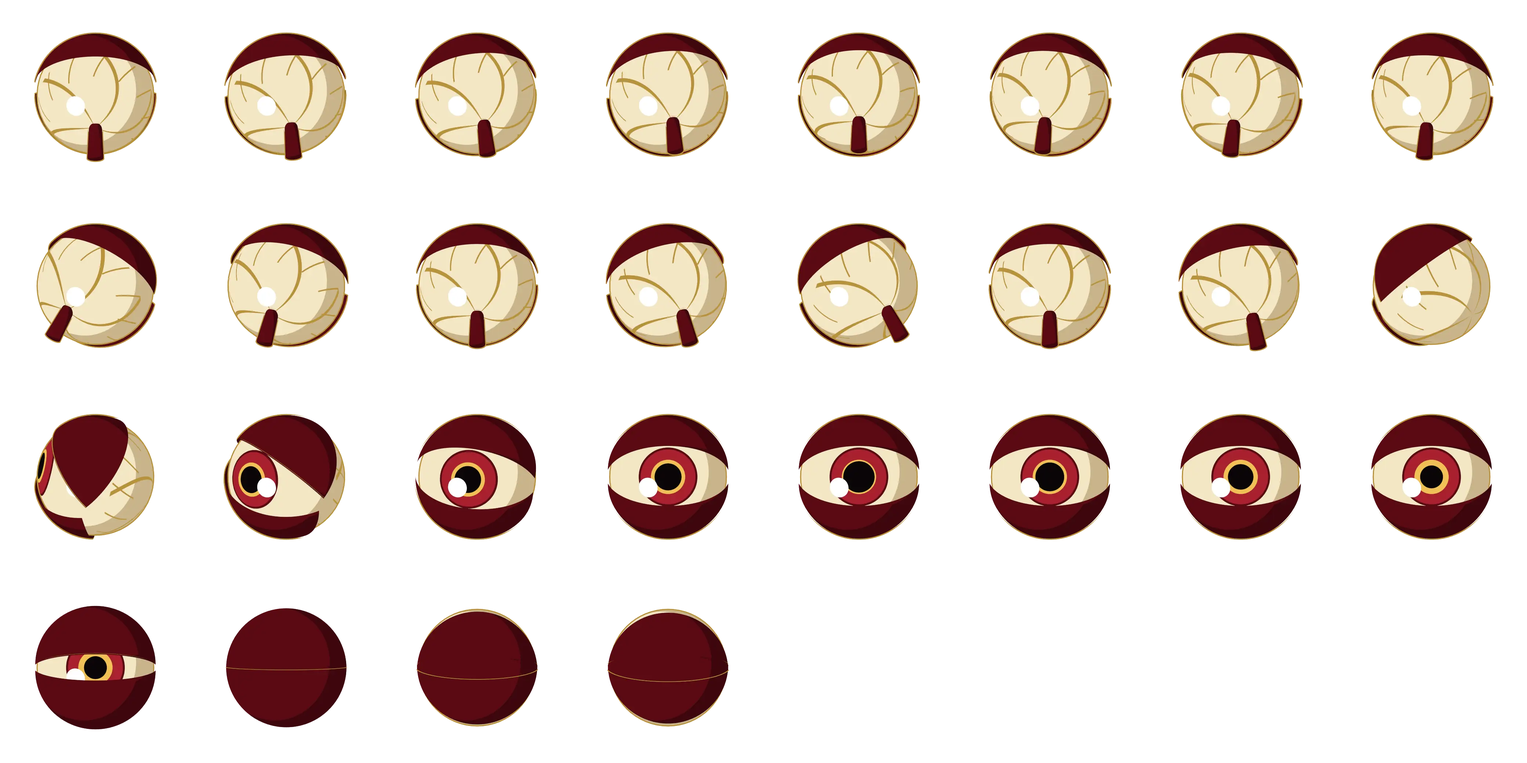
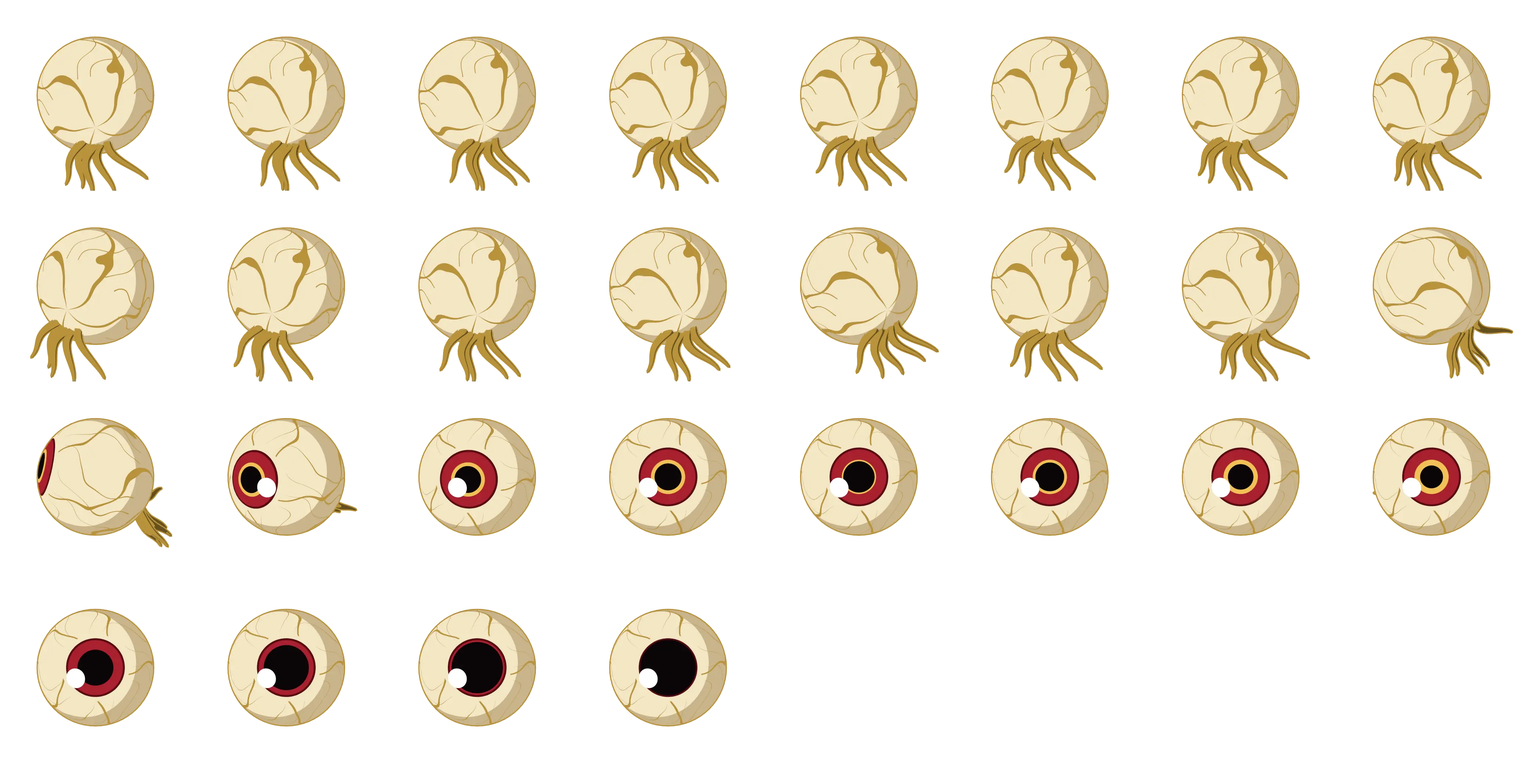
KITTY_RUN.EXE: READY, SET, GO! and a lidless eye
- Every run starts with READY, SET, GO! in the HUD's LCD type, a word every
  0.8 s with one of the OS's run sounds: she sits facing down the road, gets up,
  and is off on GO. It waits on READY until her back-view sheet is in, and the
  fallback to the desktop's side-view sheet is gone, so she is only ever seen
  from behind.
- The eye has no lids now: a bare eyeball, bloodshot in the OS's accent, with
  five nerve tendrils hanging and swaying under it. Turning to face the visitor
  they swing round behind it, and at the end its pupil floods the iris before
  the screen's own lids close.
- No notices over the eye once it has her.

diff --git a/js/run.js b/js/run.js
@@ -22,7 +22,8 @@ const clamp = (v, a = 0, b = 1) => Math.max(a, Math.min(b, v));
 const pick = (a) => a[Math.floor(Math.random() * a.length)];
 const U = (lane) => (lane + .5) * 4 / 3;            // a lane's middle on the road, which runs 0 to 4
 const V0 = 1.2, VMAX = 2.4, RAMP = 100;                // r a second at the start, at most, and seconds to get most of the way there
-const SPAWN = 2.6, METRES = 12, INTRO = 1.5;          // where things appear (r), metres to an r, seconds before she bolts
+const SPAWN = 2.6, METRES = 12, INTRO = 1.6;          // where things appear (r), metres to an r, seconds before she bolts (on GO)
+const BEAT = .8, COUNT = ['READY', 'SET', 'GO!'];    // the countdown: a word every BEAT seconds, and GO! as she bolts
 const AGAIN = 8000, SAFE = 1200;                      // ms: a second hit inside AGAIN is caught; after a hit nothing hurts for SAFE
 const HOP = 220;                                      // ms from one lane to the next
 const TALL = 1.3, SLIDE = .7, RIDE = 2.25;            // her height, how long a slide lasts (s), how high a window carries her: over every wall
@@ -70,7 +71,7 @@ let host = null, on = false, last = 0, sec = 0, speed = 0, dt = 0, nowAt = 0, ca
 export let dist = 0;   // r run so far: js/beats.js moves the road's rows with it
 let wantJump = -1e9, landAt = -1e9, lane = 1, x = 1, fromX = 1, laneAt = -1e9, y = 0, air = null, slideTo = 0, swipe = null;
 let things = [], pops = [], gifts = [], fx = [], toasts = [], next = 0, open = 1, giftAt = 8, bag = [];
-let hitAt = -1e9, safeTo = 0, cleanFrom = 0, near = 1, eyeX = 0, caughtAt = 0, shownAt = 0, lid = null, meta = null;
+let hitAt = -1e9, safeTo = 0, cleanFrom = 0, near = 1, eyeX = 0, caughtAt = 0, shownAt = 0, lid = null, meta = null, said = -1;
 let warpAt = -1e9, powers = {}, bubbles = 0, score = 0, worlds = 0, world = '', tally = {}, notes = null, rideName = '', endedAt = -1e9;
 deck.audio.addEventListener('ended', () => { endedAt = performance.now(); });   // a song played out: only that earns the next OS its +1
 const card = $('run-result'), coarse = matchMedia('(pointer: coarse)');
@@ -86,7 +87,7 @@ export function start(h) {
   hitAt = -1e9; safeTo = 0; cleanFrom = 0; near = 0; eyeX = 0; eyeFrom = null; eyeY = 0; caughtAt = 0; shownAt = 0;
   powers = {}; bubbles = score = worlds = 0; warpAt = -1e9; world = '';
   tally = { pop: 0, run: 0, jump: 0, slide: 0, power: 0, clean: 0, ride: 0, score: 0 };
-  runBase = save.base; runSet = save.set; wantJump = -1e9;
+  runBase = save.base; runSet = save.set; wantJump = -1e9; said = -1;
   card.hidden = true;
   deck.audio.currentTime = 0; play().catch(() => {});   // every run starts its song from the top, so none starts near a song's end
   if (lid) lid = { open: true, at: performance.now() };   // after a catch, the eye opens on the new run
@@ -134,7 +135,7 @@ export function key(e) {
     arrowup: jump, w: jump, ' ': jump, arrowdown: duck, s: duck }[k];
   if (!act) return false;
   if (e.type !== 'keydown' || e.repeat || !nowAt) return true;
-  if (sec < INTRO && !calm) sec = INTRO;   // a key in the intro and she bolts
+  if (sec < INTRO) { if (!sec) return true; sec = INTRO; }   // a key in the countdown and she's off (not before it starts)
   act();
   return true;
 }
@@ -304,8 +305,12 @@ function update(f) {
     const css = getComputedStyle(document.documentElement), v = (n) => css.getPropertyValue(n).trim();
     lcd = { bg: v('--lcd-bg'), fg: v('--lcd-fg'), glow: v('--lcd-glow') };
   }
-  if (!caughtAt) sec += dt;
-  const run = sec - INTRO * !calm;
+  // The countdown waits on READY until her back-view sheet is in, however long that takes: she is never drawn any other
+  // way, and a run never starts without her on the road.
+  if (!caughtAt && (sec || sheetIn())) sec += dt;
+  const run = sec - INTRO;
+  const word = sec ? Math.min(2, Math.floor(sec / BEAT)) : -1;
+  if (word > said && run < .6) { said = word; sfx(word < 2 ? 'lane' : 'power', 0); }   // a tick on READY and SET, and GO!
   const want = run < 0 ? 0 : (V0 + (VMAX - V0) * (1 - Math.exp(-run / RAMP))) * (active('zoom') ? 1.7 : 1);
   speed += ((caughtAt ? 0 : want) - speed) * Math.min(1, dt * (caughtAt ? 6 : 3));
   dist += speed * dt;
@@ -473,25 +478,24 @@ function streaks(g, f) {   // zoomies: the world rushes past
 }
 
 /* ---------- Her ---------- */
-// From behind, from her own sheet per coat (<coat>-run.webp, described by kitty.json's run). Until it is in, the coat
-// she had stays on, and before any is in she is drawn from the desktop's run, which is already loaded.
+// From behind, from her own sheet per coat (<coat>-run.webp, described by kitty.json's run). Until a new OS's coat is in,
+// the coat she had stays on; before her first is in she isn't drawn at all, and the countdown waits on READY.
 let coatOn = '', strideAt = 99;
+const coatFor = (id) => (meta.coats.includes(id) ? id : meta.coats[0]);
+const sheetIn = () => !!(meta?.run && world && kittySheet('run', coatFor(world)).ok);   // her back-view sheet is in: the countdown can go
 function kitty(g, f) {
   const M = meta;
-  if (!M) return;
-  const B = M.run, want = B && M.coats.includes(f.id) ? f.id : M.coats[0];
-  if (B && kittySheet('run', want).ok) coatOn = want;
-  const back = B && coatOn && kittySheet('run', coatOn).ok;
-  const S = back ? B : { cell: M.cell, cx: M.cx, floor: M.floor, cols: M.cols, tall: 150, actions: M.actions };
-  const sheetOf = (a) => (back ? kittySheet('run', coatOn) : kittySheet(a.sheet, M.coats.includes(f.id) ? f.id : M.coats[0]));
-  const run = sec - INTRO * !calm, ages = (nowAt - caughtAt) / 1000, A = S.actions, last = (k) => A[k].frames - 1;
+  if (!M?.run) return;
+  const want = coatFor(f.id);
+  if (kittySheet('run', want).ok) coatOn = want;
+  if (!coatOn || !kittySheet('run', coatOn).ok) return;
+  const S = M.run;
+  const run = sec - INTRO, ages = (nowAt - caughtAt) / 1000, A = S.actions, last = (k) => A[k].frames - 1;
   const cycle = (n, fps) => Math.floor(nowAt / 1000 * fps) % n, along = (k, p) => Math.min(last(k), Math.floor(clamp(p) * A[k].frames));
   let name = 'run', i = 0, flip = 1;
   if (caughtAt) { name = 'look_around'; i = along(name, ages / 1.1); }
-  else if (!back) i = cycle(A.run.frames, 12);
-  else if (run < 0) {   // she sits, looks back at the eye, and bolts
-    const p = sec / INTRO;
-    if (p < .3) { name = 'sit'; i = cycle(A.sit.frames, 8); } else if (p < .78) { name = 'look_around'; i = along(name, (p - .3) / .48); } else { name = 'stand_up'; i = along(name, (p - .78) / .22); }
+  else if (run < 0) {   // READY: she sits, facing down the road; SET: she gets up; GO!: she's off
+    if (sec < BEAT) { name = 'sit'; i = cycle(A.sit.frames, 8); } else { name = 'stand_up'; i = along(name, (sec - BEAT) / (INTRO - BEAT)); }
   } else if (active('ride')) {   // up onto the window as it arrives, sitting on it as it flies, down as it goes
     const kin = clamp((nowAt - (powers.ride - LAST.ride * 1000)) / 450), kout = clamp((powers.ride - nowAt) / 450);
     if (kin < 1) { name = 'leap'; i = 3; } else if (kout < 1) { name = 'leap'; i = 6; } else { name = 'sit'; i = cycle(A.sit.frames, 8); }
@@ -506,7 +510,7 @@ function kitty(g, f) {
   if (calm && !caughtAt && (name === 'run' || name === 'sprint')) i = 0;
   if ((name === 'run' || name === 'sprint') && i < strideAt && !y) spark('puff', U(x), dist);   // a new stride: the hind paws strike
   strideAt = name === 'run' || name === 'sprint' ? i : 99;
-  const a = S.actions[name], img = sheetOf(a);
+  const a = S.actions[name], img = kittySheet('run', coatOn);
   if (!img?.ok) return;
   const [px, py] = f.at(U(x), 0), sc = f.lane * TALL / S.tall, n = a.first + i, [cw, ch] = S.cell;
   if (!f.lite) { g.fillStyle = 'rgba(0,0,0,.28)'; g.beginPath(); g.ellipse(px, py, f.lane * .42 / (1 + y * .4), f.lane * .1 / (1 + y * .4), 0, 0, TAU); g.fill(); }
@@ -597,10 +601,11 @@ function carpet(g, f, h, slide, alpha) {   // tilted up toward the far end, as a
 }
 
 /* ---------- The eye: a 3D eyeball in each OS's skin (_dev/kitty/blender/eyeball.py), seen from behind, from assets/run ---------- */
-// chase: a wobbling loop as it flies after her; look: turned toward her lane. It is out of sight until she stumbles.
-// When it has her it surfaces straight up the middle of the screen, turning as it comes (turn), and stares at the visitor
-// dead on, the world dimmed behind it (stare), the desktop looking back through the fourth wall; then it shuts (shut).
-const SURFACE = 550, STARE = 2100, CLOSE = 250;   // ms after the catch: up and round, staring, its lids closing
+// A bare eyeball, no lids, with nerve tendrils trailing under it. chase: a wobbling loop as it flies after her; look: turned
+// toward her lane. It is out of sight until she stumbles. When it has her it surfaces straight up the middle of the screen,
+// turning as it comes (turn), its tendrils swinging round behind it, and stares at the visitor dead on, the world dimmed
+// behind it (stare), the desktop looking back through the fourth wall; then its pupil floods the iris (dilate).
+const SURFACE = 550, STARE = 2100, CLOSE = 250;   // ms after the catch: up and round, staring, its pupil flooding
 let EYE = null, eyeSkin = '', eyeY = 0, eyeS = 0, eyeFrom = null;
 const eyeSheets = {};
 fetch('assets/run/eye.json').then((r) => r.json()).then((m) => { EYE = m; }).catch(() => {});
@@ -638,7 +643,7 @@ function stare(g, f) {
   g.save(); g.globalAlpha = .55 * clamp(age / SURFACE); g.fillStyle = '#040b1c'; g.fillRect(0, 0, f.W, f.H); g.restore();   // the world falls back behind it, in the lids' own dark
   const n = age < SURFACE && !calm ? A.turn.first + Math.min(A.turn.frames - 1, Math.floor(age / SURFACE * A.turn.frames))
     : age < STARE ? A.stare.first + Math.min(A.stare.frames - 1, Math.floor((age - SURFACE) / 80))
-    : A.shut.first + Math.min(A.shut.frames - 1, Math.floor((age - STARE) / (CLOSE / A.shut.frames)));
+    : A.dilate.first + Math.min(A.dilate.frames - 1, Math.floor((age - STARE) / (CLOSE / A.dilate.frames)));
   g.drawImage(cells[n], x0 - s0, y0 - s0, s0 * 2, s0 * 2);
 }
 const wands = {};
@@ -654,7 +659,7 @@ function wandOf(id) {
 /* ---------- On top: the score, what she has on, the help, and the lids ---------- */
 export function hud(g, f, font) {
   if (!on) return;
-  const { W, H, d, type, top, ink, glow } = f, run = sec - INTRO * !calm;
+  const { W, H, d, type, top, ink, glow } = f, run = sec - INTRO;
   g.setTransform(1, 0, 0, 1, 0, 0); g.globalAlpha = 1; g.globalCompositeOperation = 'source-over';
   font(g, `${type}px ${f.font}`); g.fillStyle = ink; g.textBaseline = 'top'; g.shadowColor = glow; g.shadowBlur = 6 * d;
   g.lineJoin = 'round'; g.lineWidth = 3 * d; g.strokeStyle = glow;   // a stroke of its glow under the type, so it reads over a white cloud
@@ -683,8 +688,18 @@ export function hud(g, f, font) {
     g.fillText('POP THE BUBBLES', f.cx, mid + type * .7, wide);
     g.globalAlpha = 1;
   }
+  if (run < .6 && !caughtAt) {   // READY, SET, GO!: each word pops in on its beat, and GO! fades as she gets going
+    const k = sec ? Math.min(2, Math.floor(sec / BEAT)) : 0, age = sec ? (k < 2 ? sec - k * BEAT : run) : 0, big = Math.round(type * (k < 2 ? 2.4 : 3));
+    const pop = calm ? 1 : 1 + .3 * (1 - clamp(age / .16)) ** 2;
+    font(g, `${big}px ${f.font}`); g.lineWidth = 4 * d;
+    g.globalAlpha = k < 2 ? 1 : clamp((.6 - run) / .3);
+    g.save(); g.translate(f.cx, mid - type * 2.7); g.scale(pop, pop);
+    g.strokeText(COUNT[k], 0, 0, wide); g.fillText(COUNT[k], 0, 0, wide);
+    g.restore();
+    font(g, `${type}px ${f.font}`); g.lineWidth = 3 * d; g.globalAlpha = 1;
+  }
   while (toasts.length && nowAt - toasts[0].at > toasts[0].life) { toasts.shift(); if (toasts[0]) toasts[0].at = nowAt; }   // one at a time
-  const t = toasts[0];
+  const t = !caughtAt && toasts[0];   // none over the eye once it has her: the result lists the goals
   if (t) {
     const age = (nowAt - t.at) / t.life, [px, py] = f.at(U(x), 0), y0 = t.her ? py - (y + TALL + .5) * f.lane : mid - (run < 2.5 ? type * 2.4 : 0);
     g.globalAlpha = age < .8 ? 1 : (1 - age) / .2;

diff --git a/index.html b/index.html
@@ -18,7 +18,7 @@
 <link rel="apple-touch-icon" href="assets/icons/eye-180.png">
 <link rel="preload" href="assets/fonts/baloo-da-2-var-latin.woff2" as="font" type="font/woff2" crossorigin>
 <link rel="preload" href="assets/fonts/hind-siliguri-400-latin.woff2" as="font" type="font/woff2" crossorigin>
-<script type="importmap">{"imports": {"./js/analytics.js": "./js/analytics.js?v=e18596f8", "./js/audio.js": "./js/audio.js?v=c8f3778f", "./js/beats.js": "./js/beats.js?v=13f4b9b0", "./js/beatworlds.js": "./js/beatworlds.js?v=e89e5c90", "./js/bringback.js": "./js/bringback.js?v=81b45ed1", "./js/bubblepop.js": "./js/bubblepop.js?v=1f943c72", "./js/bubbles.js": "./js/bubbles.js?v=5b5caee5", "./js/clock.js": "./js/clock.js?v=0856070b", "./js/fx.js": "./js/fx.js?v=f9c8771a", "./js/kitty.js": "./js/kitty.js?v=d1563961", "./js/main.js": "./js/main.js?v=ee03c92a", "./js/observe.js": "./js/observe.js?v=daaa1275", "./js/paint.js": "./js/paint.js?v=0e55c193", "./js/panopticon.js": "./js/panopticon.js?v=a65b4065", "./js/run.js": "./js/run.js?v=a12035f6", "./js/stats.js": "./js/stats.js?v=1988723d", "./js/themes.js": "./js/themes.js?v=15cefb94", "./js/tour.js": "./js/tour.js?v=14ec0b47"}}</script>
+<script type="importmap">{"imports": {"./js/analytics.js": "./js/analytics.js?v=e18596f8", "./js/audio.js": "./js/audio.js?v=c8f3778f", "./js/beats.js": "./js/beats.js?v=13f4b9b0", "./js/beatworlds.js": "./js/beatworlds.js?v=e89e5c90", "./js/bringback.js": "./js/bringback.js?v=81b45ed1", "./js/bubblepop.js": "./js/bubblepop.js?v=1f943c72", "./js/bubbles.js": "./js/bubbles.js?v=5b5caee5", "./js/clock.js": "./js/clock.js?v=0856070b", "./js/fx.js": "./js/fx.js?v=f9c8771a", "./js/kitty.js": "./js/kitty.js?v=d1563961", "./js/main.js": "./js/main.js?v=ee03c92a", "./js/observe.js": "./js/observe.js?v=daaa1275", "./js/paint.js": "./js/paint.js?v=0e55c193", "./js/panopticon.js": "./js/panopticon.js?v=a65b4065", "./js/run.js": "./js/run.js?v=b6dd88fd", "./js/stats.js": "./js/stats.js?v=1988723d", "./js/themes.js": "./js/themes.js?v=15cefb94", "./js/tour.js": "./js/tour.js?v=14ec0b47"}}</script>
 <link rel="stylesheet" href="css/site.css?v=a7e0e856">
 <script>
   // Decide before first paint, so the boot screen never flashes for returning visitors.

diff --git a/_dev/kitty/blender/eyeball.py b/_dev/kitty/blender/eyeball.py
@@ -1,17 +1,17 @@
-"""The OBSERVE eye that chases KITTY_RUN.EXE's kitty: an eyeball in the kitty's own look (flat colour, one shadow tone, a
-dark outline hull, from cat.py), with an upper and a lower lid, one skin per OS, through the same camera as her back-view
-clips (behind and 30 degrees up, render_sprites.py --view back).
+"""The OBSERVE eye that chases KITTY_RUN.EXE's kitty: a bare, lidless eyeball that flies on its own, in the kitty's own look
+(flat colour, one shadow tone, a dark outline hull, from cat.py), bloodshot, with three nerve tendrils trailing behind it,
+one skin per OS, through the same camera as her back-view clips (behind and 40 degrees up, render_sprites.py --view back).
 
   blender -b --python _dev/kitty/blender/eyeball.py -- --out /some/tmp/eye [--skins aero,ray] [--px 520]
   python3 _dev/kitty/blender/pack_sprites.py /some/tmp/eye --eye        (assets/run/eye-<skin>.webp and eye.json)
 
-It chases her, so the camera sees it from behind, as it sees her: the back of the ball, with fine lines in the OS's accent
-running back to the stub where the nerve leaves it, and the lids (the boot screen's) wrapping round its front. Frames:
+It chases her, so the camera sees it from behind, as it sees her: the back of the ball, veined in the OS's accent, and the
+tendrils trailing down and back from it, swaying as it flies. Frames:
   chase  8   a loop: it wobbles as it flies
   look   5   turned from her far left to her far right, so the page can keep it on her lane
   turn   7   when it has her: it spins round and lifts its gaze as it surfaces, until it looks straight down the camera
   stare  4   at the visitor, dead on, its pupil tightening as it locks on: the desktop looks back, through the fourth wall
-  shut   4   still facing the camera, the lids close
+  dilate 4   still staring, the pupil floods the iris; then the screen's own lids close over it
 The iris, pupil, highlight and lines are painted on the ball by its material, as the cat's face is. The eye makes no sound.
 """
 import bpy, bmesh, math, os, sys, json
@@ -21,32 +21,38 @@ sys.path.append(os.path.dirname(os.path.abspath(__file__)))
 import cat
 
 ELEVATION = 40                       # degrees, as render_sprites.BACK_ELEVATION
-R, LID = 0.5, 0.535                  # the ball's radius and the lids'
+R = 0.5                              # the ball's radius
 IRIS, PUPIL, RING = 0.86, 0.972, 0.955   # cosines from the gaze: the iris's edge, the pupil's, the light ring round the pupil
-SKINS = {   # each OS's OBSERVE icon, as an eyeball: white, its shadow, the iris (dark rim, body, light ring), pupil, lids, line
-    'aero':    dict(vein='#5aa8e6', white='#ffffff', shade='#c4d8ee', rim='#07366f', iris='#1890d8', light='#7ff1ff', pupil='#061a33', lid='#0a5cb8', lid_shade='#06306b', line='#07366f'),
-    'vapor':   dict(vein='#ff71ce', white='#fff5fc', shade='#f0c8e8', rim='#7b1fa2', iris='#ff71ce', light='#fffb96', pupil='#1a0640', lid='#b967ff', lid_shade='#7b1fa2', line='#2a1257'),
-    'baroque': dict(vein='#b8923a', white='#f3e6c4', shade='#c9b48a', rim='#5a0a14', iris='#a8202e', light='#f0c055', pupil='#0a0607', lid='#5a0a14', lid_shade='#3d060d', line='#b8923a'),
-    'ghost':   dict(vein='#19f7ff', white='#d8f6f4', shade='#8fb8b8', rim='#5a0016', iris='#ff003c', light='#fcee0a', pupil='#021012', lid='#12363a', lid_shade='#0a2224', line='#00ffc8'),
-    'ray':     dict(vein='#5b574e', white='#f4ecd8', shade='#cfc7b3', rim='#1d1b18', iris='#5b574e', light='#b9ad92', pupil='#000000', lid='#3d3a34', lid_shade='#1d1b18', line='#161513'),
-    'metro':   dict(vein='#c27a0a', white='#f6f2ea', shade='#cbbfae', rim='#0039a6', iris='#1f6fd8', light='#8fdcff', pupil='#0e0f12', lid='#2a2a2e', lid_shade='#16171a', line='#16171a'),
+SKINS = {   # each OS's OBSERVE icon, as an eyeball: veins, white, its shadow, the iris (dark rim, body, light ring), pupil, tendrils, line
+    'aero':    dict(vein='#5aa8e6', white='#ffffff', shade='#c4d8ee', rim='#07366f', iris='#1890d8', light='#7ff1ff', pupil='#061a33', cord='#0a5cb8', cord_shade='#06306b', line='#07366f'),
+    'vapor':   dict(vein='#ff71ce', white='#fff5fc', shade='#f0c8e8', rim='#7b1fa2', iris='#ff71ce', light='#fffb96', pupil='#1a0640', cord='#b967ff', cord_shade='#7b1fa2', line='#2a1257'),
+    'baroque': dict(vein='#b8923a', white='#f3e6c4', shade='#c9b48a', rim='#5a0a14', iris='#a8202e', light='#f0c055', pupil='#0a0607', cord='#5a0a14', cord_shade='#3d060d', line='#b8923a'),
+    'ghost':   dict(vein='#19f7ff', white='#d8f6f4', shade='#8fb8b8', rim='#5a0016', iris='#ff003c', light='#fcee0a', pupil='#021012', cord='#12363a', cord_shade='#0a2224', line='#00ffc8'),
+    'ray':     dict(vein='#5b574e', white='#f4ecd8', shade='#cfc7b3', rim='#1d1b18', iris='#5b574e', light='#b9ad92', pupil='#000000', cord='#3d3a34', cord_shade='#1d1b18', line='#161513'),
+    'metro':   dict(vein='#c27a0a', white='#f6f2ea', shade='#cbbfae', rim='#0039a6', iris='#1f6fd8', light='#8fdcff', pupil='#0e0f12', cord='#2a2a2e', cord_shade='#16171a', line='#16171a'),
 }
-OPEN, SHUT = (-30, 28), (14, -12)    # (upper, lower) lid turns in degrees: open, and meeting a little below the middle
-ACTIONS = [('chase', 8), ('look', 5), ('turn', 7), ('stare', 4), ('shut', 4)]
-NERVE = (0.07, 0.3)                  # the cord at the back, trailing down and back: radius, length
+ACTIONS = [('chase', 8), ('look', 5), ('turn', 7), ('stare', 4), ('dilate', 4)]
+REACH = 0.3                          # how far past the ball the frame leaves room: the tendrils stay inside it
+TENDRILS = [   # where each leaves the lower back of the ball (across, down), where its tip hangs (across), length, root radius, sway phase
+    (-0.22, 0.42, -0.50, 0.36, 0.030, 0.0),
+    (-0.10, 0.50, -0.22, 0.42, 0.036, 2.6),
+    (0.00, 0.54, 0.04, 0.44, 0.040, 1.1),
+    (0.11, 0.50, 0.26, 0.40, 0.035, 4.0),
+    (0.22, 0.42, 0.48, 0.35, 0.029, 5.3),
+]
 
 
 GAZE, CAM = -10, ELEVATION            # degrees above level: where it looks while it chases her (a little down), and the camera
 
 def frames():
-    """(where it looks: turn about the up axis and elevation, in degrees; lids shut 0..1; the pupil's edge) for every frame,
-    in ACTIONS order. The gaze turns half round and lifts to the camera's height to look straight at it."""
+    """(where it looks: turn about the up axis and elevation, in degrees; the pupil's edge, as a cosine from the gaze) for
+    every frame, in ACTIONS order. The gaze turns half round and lifts to the camera's height to look straight at it."""
     ease = lambda i, n: (1 - math.cos(math.pi * i / n)) / 2
-    out = [(7 * math.sin(i * math.tau / 8), GAZE + 4 * math.cos(i * math.tau / 8), 0.0, PUPIL) for i in range(8)]   # chase
-    out += [(-30 + 15 * i, GAZE, 0.0, PUPIL) for i in range(5)]                                                     # look
-    out += [(180 * ease(i, 6), GAZE + (CAM - GAZE) * ease(i, 6), 0.0, PUPIL) for i in range(7)]                    # turn
-    out += [(180, CAM, 0.0, p) for p in (0.962, 0.968, 0.975, 0.98)]                                                # stare
-    out += [(180, CAM, k, 0.98) for k in (0.4, 0.75, 0.95, 1.0)]                                                    # shut
+    out = [(7 * math.sin(i * math.tau / 8), GAZE + 4 * math.cos(i * math.tau / 8), PUPIL) for i in range(8)]   # chase
+    out += [(-30 + 15 * i, GAZE, PUPIL) for i in range(5)]                                                     # look
+    out += [(180 * ease(i, 6), GAZE + (CAM - GAZE) * ease(i, 6), PUPIL) for i in range(7)]                    # turn
+    out += [(180, CAM, p) for p in (0.962, 0.968, 0.975, 0.98)]                                                # stare
+    out += [(180, CAM, p) for p in (0.95, 0.92, 0.895, 0.875)]                                                 # dilate
     return out
 
 
@@ -67,16 +73,21 @@ def ball_mat(hl):
     iris = cat.mix(nt, cat.m(nt, 'GREATER_THAN', c, RING), iris, cat.rgb(nt, 'eye_light'))
     iris = cat.mix(nt, cat.m(nt, 'GREATER_THAN', c, cat.value(nt, 'eye_pupil_at')), iris, cat.rgb(nt, 'eye_pupil'))   # its edge set per frame
     col = cat.mix(nt, cat.m(nt, 'GREATER_THAN', c, IRIS), white, iris)
-    # the back: lines running from the nerve forward round the ball, finer and fading toward its middle
+    # bloodshot: veins run from where the tendrils leave the back forward round the ball to just short of the iris, thick at
+    # the back and thinning as they go, branching once on the way
     sep = nt.nodes.new('ShaderNodeSeparateXYZ'); nt.links.new(nrm.outputs['Vector'], sep.inputs[0])
     phi = cat.m(nt, 'ARCTAN2', sep.outputs['Z'], sep.outputs['Y'])
+    at = cat.m(nt, 'ADD', 0.972, cat.m(nt, 'MULTIPLY', cat.m(nt, 'ADD', c, 1.0), 0.009))   # the line's threshold: lower is thicker
+    noise = nt.nodes.new('ShaderNodeTexNoise'); noise.inputs['Scale'].default_value = 1.6; noise.inputs['Detail'].default_value = 0.0
+    nt.links.new(nrm.outputs['Vector'], noise.inputs['Vector'])
+    phi = cat.m(nt, 'ADD', phi, cat.m(nt, 'MULTIPLY', cat.m(nt, 'SUBTRACT', noise.outputs['Fac'], 0.5), 1.1))   # so they wander, not a rosette
     wave = cat.m(nt, 'SINE', cat.m(nt, 'ADD', cat.m(nt, 'MULTIPLY', phi, 5.0), cat.m(nt, 'MULTIPLY', c, 4.0)))
     fork = cat.m(nt, 'SINE', cat.m(nt, 'ADD', cat.m(nt, 'MULTIPLY', phi, 11.0), cat.m(nt, 'MULTIPLY', c, -6.0)))   # branches toward the middle
-    thin = cat.m(nt, 'MAXIMUM', cat.m(nt, 'GREATER_THAN', wave, 0.975), cat.m(nt, 'MULTIPLY', cat.m(nt, 'GREATER_THAN', fork, 0.985), cat.m(nt, 'GREATER_THAN', c, -0.6)))
-    vein = cat.m(nt, 'MULTIPLY', thin, cat.m(nt, 'LESS_THAN', c, -0.15))
+    thin = cat.m(nt, 'MAXIMUM', cat.m(nt, 'GREATER_THAN', wave, at), cat.m(nt, 'MULTIPLY', cat.m(nt, 'GREATER_THAN', fork, cat.m(nt, 'ADD', at, 0.012)), cat.m(nt, 'GREATER_THAN', c, -0.6)))
+    vein = cat.m(nt, 'MULTIPLY', thin, cat.m(nt, 'LESS_THAN', c, IRIS - 0.05))
     col = cat.mix(nt, vein, col, cat.rgb(nt, 'eye_vein'))
     g = nt.nodes.new('ShaderNodeNewGeometry')                              # the highlight stays put as the eye turns
-    shine = cat.m(nt, 'GREATER_THAN', cat.dot(nt, g.outputs['Normal'], hl), 0.985)
+    shine = cat.m(nt, 'MULTIPLY', cat.m(nt, 'GREATER_THAN', cat.dot(nt, g.outputs['Normal'], hl), 0.985), cat.m(nt, 'GREATER_THAN', c, 0.6))   # only on the front: from behind it read as a pupil
     cat.emit(nt, out, cat.mix(nt, shine, col, cat.rgb(nt, 'eye_glint')))
     return mat
 
@@ -90,21 +101,34 @@ def mesh(name, bm, mats):
     return ob
 
 
-def cap(name, sign, mats):
-    """A lid: a shell a little bigger than the ball over its front, above (sign 1) or below (-1) its middle. Only the
-    front: from behind, the back of the ball shows bare, as a real eye's does."""
-    bm = bmesh.new()
-    bmesh.ops.create_uvsphere(bm, u_segments=96, v_segments=48, radius=LID)
-    for co, no in (((0, 0, 0), (0, 0, -sign)), ((0.12, 0, 0), (-1, 0, 0))):   # cut along clean planes, so its edges are smooth arcs
-        geom = bm.verts[:] + bm.edges[:] + bm.faces[:]
-        bmesh.ops.bisect_plane(bm, geom=geom, plane_co=co, plane_no=no, clear_outer=True)
-    return mesh(name, bm, mats)
+def tendril(name, across, down, tip, length, r0, mats, seg=12, n=14):
+    """A nerve tendril: a tube leaving the back of the ball, trailing back and down with a slight S, tapering to a point.
+    Built round its root, so turning the object about its origin sways it."""
+    root = Vector((-1, across, -down)).normalized() * (R - 0.02)
+    path = [Vector((-0.34 * t, (tip - across) / length * t + 0.13 * math.sin(1.5 * math.pi * t), -0.94 * t)) * length for t in (k / (n - 1) for k in range(n))]
+    radii = [r0 * (1 - t) ** 0.85 + 0.006 for t in (k / (n - 1) for k in range(n))]
+    bm, rings = bmesh.new(), []
+    for k, (p, r) in enumerate(zip(path, radii)):
+        tan = (path[min(k + 1, n - 1)] - path[max(k - 1, 0)]).normalized()
+        a = tan.cross(Vector((0, 0, 1)))
+        a = (a if a.length > 1e-4 else tan.cross(Vector((0, 1, 0)))).normalized()
+        b = tan.cross(a).normalized()
+        rings.append([bm.verts.new(p + (a * math.cos(j * math.tau / seg) + b * math.sin(j * math.tau / seg)) * r) for j in range(seg)])
+    for ra, rb in zip(rings, rings[1:]):
+        for j in range(seg): bm.faces.new((ra[j], ra[(j + 1) % seg], rb[(j + 1) % seg], rb[j]))
+    tipv = bm.verts.new(path[-1] + (path[-1] - path[-2]).normalized() * radii[-1] * 2)
+    for j in range(seg): bm.faces.new((rings[-1][j], rings[-1][(j + 1) % seg], tipv))
+    bm.faces.new(rings[0][::-1])
+    bmesh.ops.recalc_face_normals(bm, faces=bm.faces)
+    ob = mesh(name, bm, mats)
+    ob.location = root
+    return ob
 
 
 def apply_skin(name):
     s = {k: cat.lin(cat.srgb(v)) for k, v in SKINS[name].items()}
     vals = {'eye_vein': s['vein'], 'eye_white': s['white'], 'eye_shade': s['shade'], 'eye_rim': s['rim'], 'eye_iris': s['iris'], 'eye_light': s['light'],
-            'eye_pupil': s['pupil'], 'eye_glint': cat.lin((1, 1, 1)), 'lid': s['lid'], 'lid_shade': s['lid_shade'], 'coat_line': s['line']}
+            'eye_pupil': s['pupil'], 'eye_glint': cat.lin((1, 1, 1)), 'cord': s['vein'], 'cord_shade': cat.lin(tuple(v * 0.55 for v in cat.srgb(SKINS[name]['vein']))), 'coat_line': s['line']}
     for m in bpy.data.materials:
         for n in (m.node_tree.nodes if m.node_tree else ()):
             if n.name in vals: n.outputs[0].default_value = vals[n.name]
@@ -130,18 +154,14 @@ def main():
     line = cat.line_mat()
     bm = bmesh.new(); bmesh.ops.create_uvsphere(bm, u_segments=64, v_segments=32, radius=R)
     ball = mesh('ball', bm, [ball_mat(tuple(hl)), line])
-    lids = [cap('lid_up', 1, [toon('lid', 'lid', 'lid_shade'), line]), cap('lid_down', -1, [bpy.data.materials['lid'], line])]
-    bm = bmesh.new(); bmesh.ops.create_cone(bm, cap_ends=True, segments=24, radius1=NERVE[0], radius2=NERVE[0] * 0.8, depth=NERVE[1])
-    bmesh.ops.translate(bm, verts=bm.verts, vec=(0, 0, -NERVE[1] / 2))
-    bmesh.ops.rotate(bm, verts=bm.verts, cent=(0, 0, 0), matrix=Matrix.Rotation(math.radians(55), 3, 'Y'))   # down and back from the back of the ball
-    bmesh.ops.translate(bm, verts=bm.verts, vec=(-R + 0.03, 0, 0))
-    nerve = mesh('nerve', bm, [bpy.data.materials['lid'], line])
+    cord = toon('cord', 'cord', 'cord_shade')
+    tails = [tendril(f'tendril{k}', a, d, t, L, r0, [cord, line]) for k, (a, d, t, L, r0, _) in enumerate(TENDRILS)]
     rig = bpy.data.objects.new('eye', None); sc.collection.objects.link(rig)
-    for ob in (ball, *lids, nerve): ob.parent = rig
+    for ob in (ball, *tails): ob.parent = rig
 
     sc.render.resolution_x = sc.render.resolution_y = px
     sc.render.dither_intensity = 0
-    cam.data.ortho_scale = 2 * (R + NERVE[1] + cat.LINE) * 1.02   # room for the nerve as it swings round
+    cam.data.ortho_scale = 2 * (R + REACH + cat.LINE) * 1.02   # room for the tendrils as it swings round (the ball stays 0.6 of the cell)
     meta = dict(cell=[px, px], ppu=px / cam.data.ortho_scale, actions={})
     i = 0
     for name, n in ACTIONS:
@@ -152,13 +172,14 @@ def main():
         apply_skin(skin)
         d = os.path.join(out, skin); os.makedirs(d, exist_ok=True)
         pupil = bpy.data.materials['eyeball'].node_tree.nodes['eye_pupil_at'].outputs[0]
-        for i, (yaw, el, k, edge) in enumerate(frames()):
+        for i, (yaw, el, edge) in enumerate(frames()):
             y, e = math.radians(yaw), math.radians(el)
             rig.rotation_euler = Vector((math.cos(y) * math.cos(e), math.sin(y) * math.cos(e), math.sin(e))).to_track_quat('X', 'Z').to_euler()   # the ball's +X along the gaze, its top kept up
-            nerve.hide_render = abs(yaw) > 40   # turning to face the camera, the cord would only cut across the eye
             pupil.default_value = edge
-            lids[0].rotation_euler = (0, math.radians(OPEN[0] + (SHUT[0] - OPEN[0]) * k), 0)
-            lids[1].rotation_euler = (0, math.radians(OPEN[1] + (SHUT[1] - OPEN[1]) * k), 0)
+            back = min(1, max(0, (abs(yaw) - 45) / 135)) ** 0.7   # turning to face the visitor, they swing round behind the ball
+            for tail, (*_, ph) in zip(tails, TENDRILS):   # each sways about its root on its own beat, a loop over chase's 8 frames
+                w = i * math.tau / 8 + ph
+                tail.rotation_euler = (math.radians(9) * math.sin(w), math.radians(7) * math.sin(w + 1.3) + math.radians(72) * back, math.radians(10) * math.cos(w))
             bpy.context.view_layer.update()
             cat.render(os.path.join(d, f'{i:02d}.png'))
         print(f'  rendered {skin}', flush=True)

diff --git a/DESIGN.md b/DESIGN.md
@@ -86,9 +86,9 @@ Charts are built from the audio by `_dev/build_beats.py`, so after a song file c
 ## KITTY_RUN.EXE
 A second game on the same road. In full screen the LCD row has a kitty glyph beside the eye; it starts a run (`js/run.js`, loaded on that first click, so a visit that never asks for it pays nothing). Every run starts its song from the top. Escape goes back to the play-along from the top, and the corner glyph back to the flat player. The world, the waves, the bars along the sides, the lens and the lite fallback are the play-along's own: the road just has three lanes (`f.cuts`) and moves with her instead of with the notes.
 
-She runs away from the camera, from her own back-view clips: rendered from the same Blender rig with a camera behind her and 30 degrees up (`render_sprites.py --view back`, the moves in `actions_run.py`), packed into one more sheet per coat (`<coat>-run.webp`, `pack_sprites.py --view back`, kitty.json's `run`), loaded when a run starts. The moves follow a real cat, the way Stray's hand-keyed cat does: she runs at a cat's gallop, the spine bending and stretching like a spring, twice a stride in the air, the hind paws landing one after the other and kicking back to show their pads, the front paws reaching far ahead, the head steadier than the body and the tail rising and falling to balance; the zoomies push the same gallop harder; a leap that crouches, lifts the head first, stretches, tucks, tips the head down and reaches for the landing; a duck flat along the road; a hop between lanes that looks into the new lane before the spine rolls, with the tail swinging out to balance; and a stumble. In every one the head leads, then the spine, the legs, and the tail last. She sits, looks back at the eye and bolts to start. Until the coat for a new OS is in, she keeps the one she had.
+She runs away from the camera, from her own back-view clips: rendered from the same Blender rig with a camera behind her and 30 degrees up (`render_sprites.py --view back`, the moves in `actions_run.py`), packed into one more sheet per coat (`<coat>-run.webp`, `pack_sprites.py --view back`, kitty.json's `run`), loaded when a run starts. The moves follow a real cat, the way Stray's hand-keyed cat does: she runs at a cat's gallop, the spine bending and stretching like a spring, twice a stride in the air, the hind paws landing one after the other and kicking back to show their pads, the front paws reaching far ahead, the head steadier than the body and the tail rising and falling to balance; the zoomies push the same gallop harder; a leap that crouches, lifts the head first, stretches, tucks, tips the head down and reaches for the landing; a duck flat along the road; a hop between lanes that looks into the new lane before the spine rolls, with the tail swinging out to balance; and a stumble. In every one the head leads, then the spine, the legs, and the tail last. Every run starts with a countdown in the HUD's LCD type, READY, SET, GO!, a word every 0.8 s, each popping in with one of the OS's run sounds (still under reduced motion): she sits facing down the road on READY, gets up on SET and is off on GO, and a key skips to GO. The countdown waits on READY until her back-view sheet is in, so she is only ever seen from behind. Until the coat for a new OS is in, she keeps the one she had.
 
-Behind her is the eye: a 3D eyeball in her own look (flat colour, one shadow tone, an outline), one skin per OS in the palette of that OS's OBSERVE icon (`_dev/kitty/blender/eyeball.py`, `assets/run/eye-<os>.webp`). It chases her, so the camera sees it from behind, as it sees her: the back of the ball, with fine lines in the OS's accent running back to the stub of the nerve, and its lids round its front. It stays out of sight while she runs clean. After a hit it rises behind her, following her lane a beat behind and wobbling as it flies, then falls back out of sight over 8 seconds if she runs clean; a second hit inside that and it has her. Then it surfaces straight up the middle of the screen, growing and turning as it comes, the world falling back into the lids' dark behind it, and stares at the visitor dead on, its pupil tightening as it locks on: the desktop looks back, through the fourth wall. After a second and a half it shuts, and the site's own eyelids (the boot screen's shape and colours) close over the screen in 800 ms, as at shutdown. The result is on the closed lids; Run again opens them.
+Behind her is the eye: a bare 3D eyeball, no lids, that flies on its own, in her own look (flat colour, one shadow tone, an outline), one skin per OS in the palette of that OS's OBSERVE icon (`_dev/kitty/blender/eyeball.py`, `assets/run/eye-<os>.webp`). It is bloodshot in the OS's accent, the veins wandering forward from the back and thinning toward the iris, and five nerve tendrils hang and sway under it. It chases her, so the camera sees it from behind, as it sees her: the back of the ball and the tendrils trailing under it. It stays out of sight while she runs clean. After a hit it rises behind her, following her lane a beat behind and wobbling as it flies, then falls back out of sight over 8 seconds if she runs clean; a second hit inside that and it has her. Then it surfaces straight up the middle of the screen, growing and turning as it comes, its tendrils swinging round behind it, the world falling back into the lids' dark behind it, and stares at the visitor dead on, its pupil tightening as it locks on: the desktop looks back, through the fourth wall. After a second and a half its pupil floods the iris, and the site's own eyelids (the boot screen's shape and colours) close over the screen in 800 ms, as at shutdown. The result is on the closed lids; Run again opens them.
 
 The run never ends on its own. The song plays whole, and when it ends or is changed (the arrow glyphs), the next song's OS takes over the run: world, coat, obstacles, bubbles, eye, sounds. Only a song played out to its end, or the NEXT OS power-up, adds 1 to the multiplier; changing it with the arrows adds nothing. The speed climbs from the start toward a cap over about two minutes, rows come closer, and patterns unlock every 18 seconds: one lane shut, then two, then more walls among them, then things that come at her down a lane. There is never a moment with something in all three lanes: every row leaves one lane wholly clear, next to the lane the row before left clear, and nothing that comes at her uses a lane a row ahead of it leaves clear.
 
